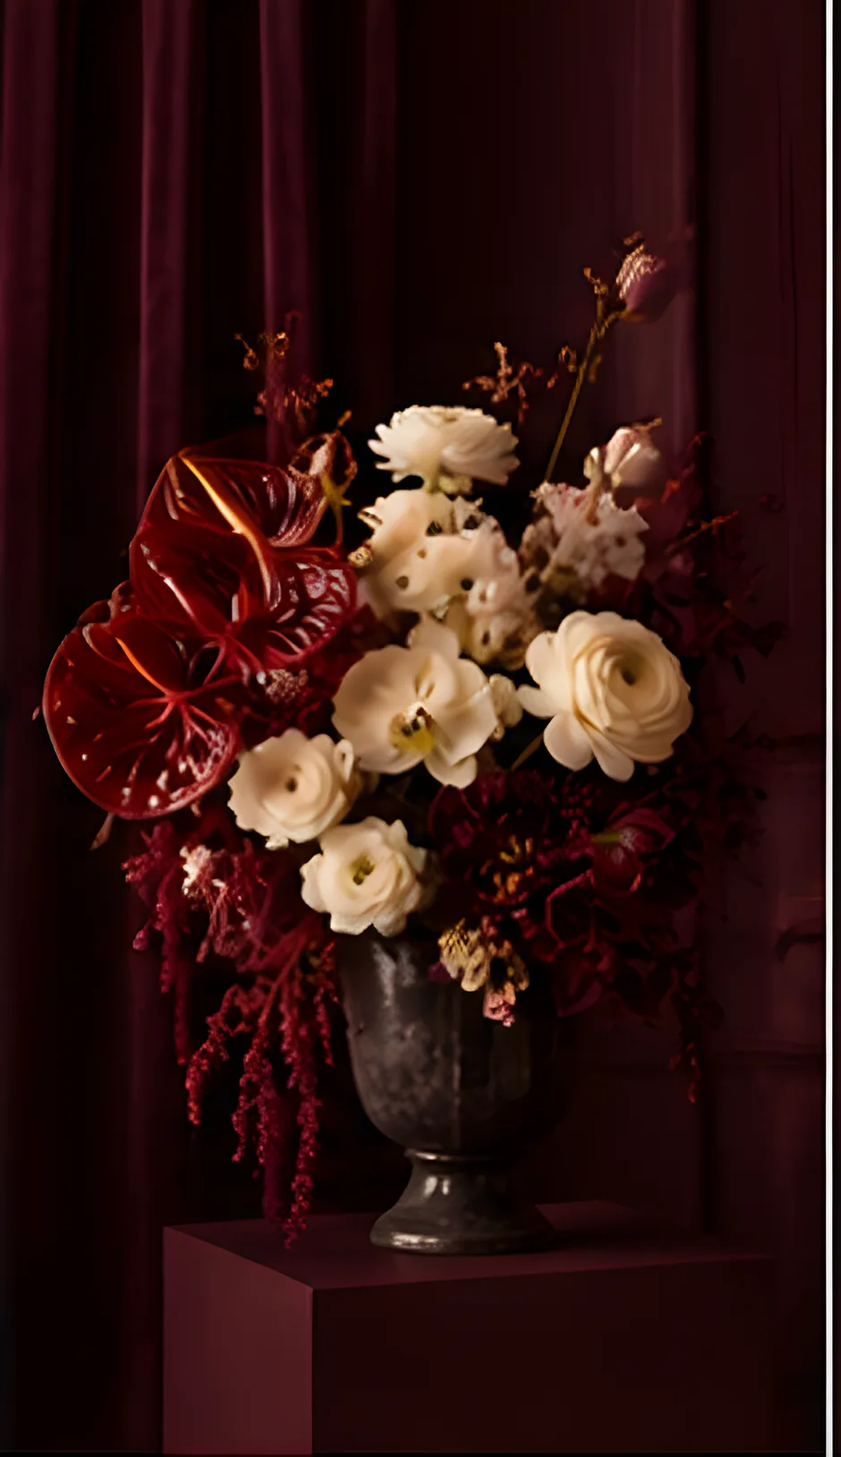
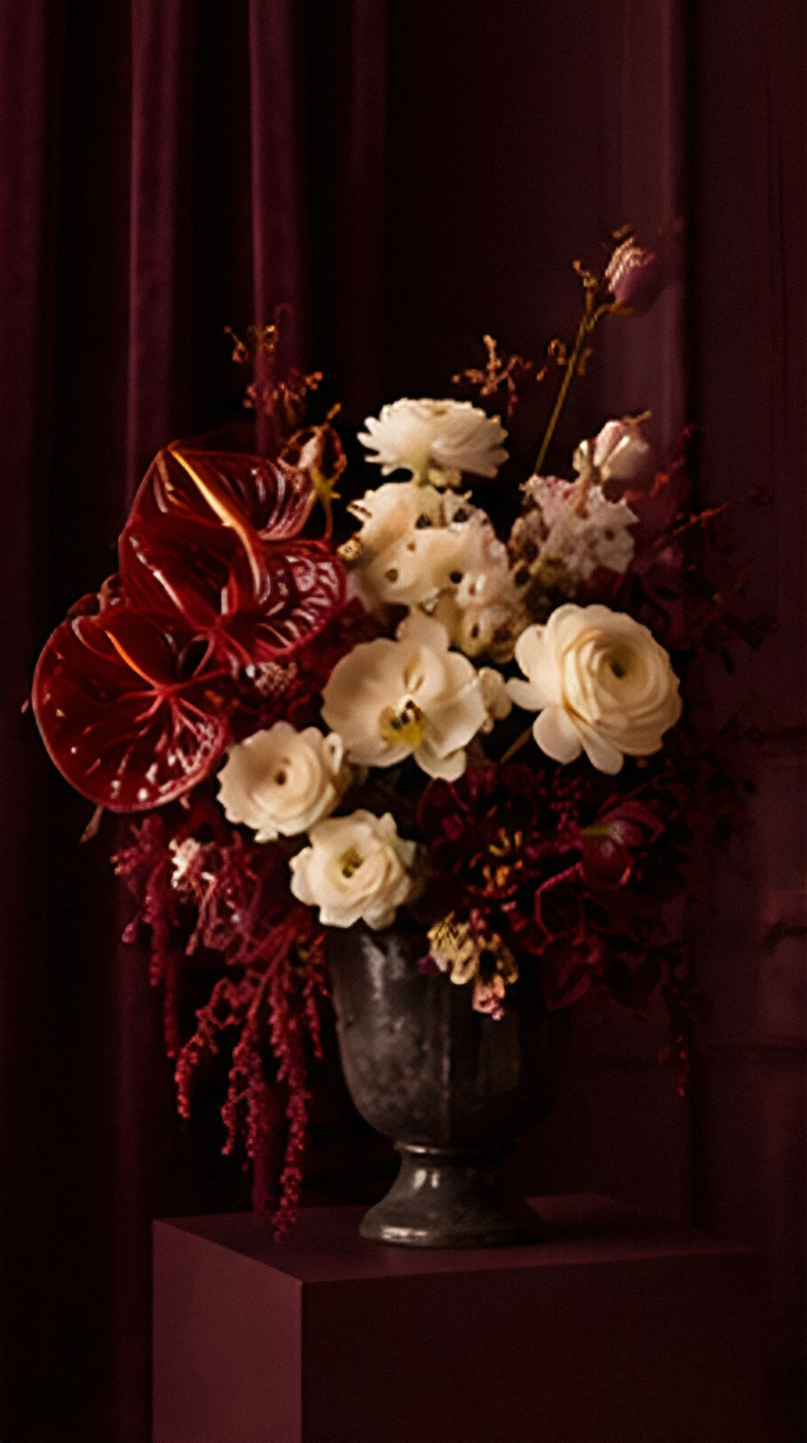
Sept Heures: final audit — title, unified cards, urn bouquets, portrait edit, copy, mobile
Claude-Session: https://claude.ai/code/session_01UTJuAjWUwzzxbHTx65gk4g

diff --git a/projects/sept-heures/index.html b/projects/sept-heures/index.html
@@ -23,7 +23,7 @@ button{background:none;border:0;cursor:pointer}
 :focus-visible{outline:1px solid var(--cream);outline-offset:4px}
 .disp{font-family:"Noto Serif Display",serif;font-weight:300;letter-spacing:-.02em;line-height:.95}
 .disp em{font-style:italic}
-h2.disp{font-size:clamp(44px,5.4vw,88px);max-width:14ch}
+h2.disp{font-size:clamp(44px,5.4vw,88px);max-width:14ch;text-wrap:balance}
 .k{font-size:12px;font-weight:500;letter-spacing:.24em;text-transform:uppercase;color:var(--soft)}
 .lead{color:var(--soft);max-width:44ch;margin-top:32px;font-size:17px}
 .sec{padding:clamp(88px,11vw,170px) var(--pad);position:relative}
@@ -61,13 +61,16 @@ header nav a:hover{opacity:1}
 .hero .time{display:flex;gap:14px;align-items:center}
 .hero .time::after{content:"";width:64px;height:1px;background:currentColor;opacity:.5}
 /* frosted letters: the same room, blurred and lifted, shows through the name */
-.frost{font-size:clamp(84px,11.5vw,190px);margin-top:26px;line-height:.86;filter:drop-shadow(0 18px 40px rgba(0,0,0,.35))}
-.frost span{display:block;overflow:hidden;padding:0 .04em .08em 0}
-.frost i{background:linear-gradient(170deg,rgba(255,244,240,.92),rgba(242,214,206,.62) 55%,rgba(255,244,240,.8)),url(img/a1-frost.webp) 70% 50%/cover;-webkit-background-clip:text;background-clip:text;color:transparent;-webkit-text-stroke:1px rgba(255,255,255,.55);display:block;font-style:normal;animation:rise 1.5s .3s var(--ease) both}
+.frost{--fs:clamp(88px,11.5vw,190px);font-size:var(--fs);margin-top:30px;line-height:.9;position:relative;width:max-content}
+.frost span{display:block;overflow:hidden;padding:0 .06em .22em 0;margin-bottom:-.2em}
+.frost i{display:block;font-style:normal;background:linear-gradient(175deg,#FFF6F2 0%,#F2DDD6 45%,#E3C1B8 70%,#F7E8E3 100%);-webkit-background-clip:text;background-clip:text;color:transparent;filter:drop-shadow(0 14px 36px rgba(20,4,8,.45));animation:rise 1.5s .3s var(--ease) both}
+.frost span+span{padding-left:.55em}
 .frost span+span i{animation-delay:.45s;font-style:italic}
+.frost i.w{display:inline-block}
+.frost .seven{display:inline-block;vertical-align:top;margin:calc(var(--fs)*.22) 0 0 18px;font:500 13px/1 "Instrument Sans",sans-serif;letter-spacing:.14em;padding:9px 14px;border-radius:999px;animation:up 1s 1s var(--ease) both}
 @keyframes rise{from{transform:translateY(105%)}}
 @keyframes up{from{opacity:0;transform:translateY(14px)}}
-.hero .lead{animation:up 1s .9s var(--ease) both;margin-top:40px;font-size:18px;color:var(--cream)}
+.hero .lead{animation:up 1s .9s var(--ease) both;margin-top:76px;font-size:18px;color:var(--cream)}
 .hero .act{display:flex;gap:12px;flex-wrap:wrap;margin-top:34px;animation:up 1s 1.1s var(--ease) both}
 .cut{font-size:14px;color:var(--soft);margin-top:16px}
 .cut b{color:var(--cream);font-weight:600;font-variant-numeric:tabular-nums}
@@ -79,12 +82,15 @@ header nav a:hover{opacity:1}
 /* the edit: pick a bouquet, the room changes */
 .edit{position:relative;height:100svh;min-height:680px;overflow:hidden;background:var(--night)}
 .edit .ph{position:absolute;inset:0}
-.edit .ph img{position:absolute;inset:0;opacity:0;transition:opacity 1s ease,transform 1.6s var(--ease);transform:scale(1.03);object-position:var(--op,60% 50%)}
-.edit .ph img.on{opacity:1;transform:none}
+.edit .ph img{position:absolute;inset:-40px;width:calc(100% + 80px);height:calc(100% + 80px);opacity:0;transition:opacity 1s ease;filter:blur(30px) brightness(.55) saturate(1.1)}
+.edit .ph img.on{opacity:.9}
+.portrait{position:absolute;z-index:2;right:calc(var(--pad) + 4vw);top:50%;transform:translateY(-50%);height:min(82vh,760px);aspect-ratio:4/7;border-radius:18px;overflow:hidden;box-shadow:0 50px 100px -40px rgba(0,0,0,.7)}
+.portrait img{position:absolute;inset:0;opacity:0;transform:scale(1.04);transition:opacity .9s ease,transform 1.4s var(--ease);object-position:var(--op,50% 50%)}
+.portrait img.on{opacity:1;transform:none}
 .edit .panel{position:absolute;z-index:3;left:var(--pad);top:50%;transform:translateY(-50%);width:min(470px,calc(100% - 32px));padding:34px 32px 28px;border-radius:28px}
 .edit h2{font-size:clamp(44px,4.6vw,72px);margin-top:16px}
 .picks{display:grid;grid-template-columns:repeat(6,1fr);gap:8px;margin-top:36px}
-.picks button{aspect-ratio:3/4;border-radius:12px;overflow:hidden;opacity:.55;outline:1px solid transparent;outline-offset:3px;transition:opacity .4s,outline-color .4s,transform .5s var(--ease)}
+.picks button{aspect-ratio:4/7;border-radius:12px;overflow:hidden;opacity:.55;outline:1px solid transparent;outline-offset:3px;transition:opacity .4s,outline-color .4s,transform .5s var(--ease)}
 .picks button:hover{opacity:.85;transform:translateY(-3px)}
 .picks button[aria-pressed=true]{opacity:1;outline-color:var(--cream)}
 .picks img{object-position:50% 40%}
@@ -100,9 +106,9 @@ header nav a:hover{opacity:1}
 
 /* collection */
 .head{display:flex;justify-content:space-between;align-items:end;gap:24px;flex-wrap:wrap;margin-bottom:64px}
-.cards{display:grid;grid-template-columns:repeat(3,1fr);gap:clamp(16px,2vw,28px)}
+.cards{display:grid;grid-template-columns:repeat(4,1fr);gap:clamp(16px,2vw,28px)}
 .card{position:relative}
-.card .im{position:relative;aspect-ratio:4/5;overflow:hidden;border-radius:4px}
+.card .im{position:relative;aspect-ratio:4/7;overflow:hidden;border-radius:14px}
 .card .im img{transition:transform 1.4s var(--ease);object-position:50% 40%}
 .card:hover .im img{transform:scale(1.05)}
 .card .quick{position:absolute;left:12px;right:12px;bottom:12px;display:flex;gap:6px;padding:6px;border-radius:999px;opacity:0;transform:translateY(12px);transition:opacity .4s,transform .5s var(--ease)}
@@ -126,14 +132,17 @@ header nav a:hover{opacity:1}
 .clock b{font:300 clamp(64px,8vw,120px)/1 "Noto Serif Display",serif;font-variant-numeric:tabular-nums}
 .steps{display:grid;grid-template-columns:repeat(4,1fr);gap:clamp(16px,2vw,28px);margin-top:72px}
 .step{border-radius:22px;padding:14px 14px 22px}
-.step .im{aspect-ratio:4/5;border-radius:12px;overflow:hidden}
+.step .im{aspect-ratio:4/5;border-radius:14px;overflow:hidden}
 .step .t{font:300 34px/1 "Noto Serif Display",serif;margin-top:20px;font-variant-numeric:tabular-nums}
 .step b{display:block;font-weight:600;margin-top:10px}
 .step p{color:var(--soft);font-size:14px;margin-top:4px}
-.step.now{border-color:rgba(255,255,255,.55)}
+.step{transition:transform .5s var(--ease)}
+.step:hover{transform:translateY(-4px)}
+.step .t{display:flex;align-items:center;gap:10px}
+.step.now .t::after{content:"now";font:500 11px/1 "Instrument Sans",sans-serif;letter-spacing:.14em;text-transform:uppercase;padding:6px 9px;border-radius:999px;border:1px solid rgba(255,255,255,.3)}
 
 /* sizes */
-.sizes .frame{position:relative;margin-top:56px;border-radius:6px;overflow:hidden}
+.sizes .frame{position:relative;margin-top:56px;border-radius:14px;overflow:hidden}
 .sizes .labels{position:absolute;left:0;right:0;bottom:24px;display:grid;grid-template-columns:29% 31% 40%;padding:0 3%;gap:12px}
 .sizes .labels button{text-align:center;padding:14px 10px;border-radius:18px;transition:transform .5s var(--ease)}
 .sizes .labels button:hover{transform:translateY(-4px)}
@@ -156,7 +165,7 @@ header nav a:hover{opacity:1}
 
 /* promise + delivery */
 .promise{display:grid;grid-template-columns:1fr 1fr;gap:clamp(16px,2vw,28px);align-items:stretch}
-.promise .im{position:relative;border-radius:6px;overflow:hidden;min-height:520px}
+.promise .im{position:relative;border-radius:14px;overflow:hidden;min-height:520px}
 .promise .cap{position:absolute;left:18px;right:18px;bottom:18px;padding:18px 20px;border-radius:20px}
 .promise .cap b{display:block;font:300 26px/1.1 "Noto Serif Display",serif}
 .promise .cap p{color:var(--soft);font-size:14px;margin-top:6px}
@@ -167,7 +176,7 @@ header nav a:hover{opacity:1}
 .visit .ph img{object-position:50% 40%}
 .visit .ph::after{content:"";position:absolute;inset:0;background:linear-gradient(0deg,rgba(34,9,14,.75),transparent 55%)}
 .visit .card2{position:relative;z-index:2;margin:var(--pad);padding:32px 34px;border-radius:28px;max-width:440px}
-.visit h2{font-size:clamp(38px,4vw,60px)}
+.visit h2{font-size:clamp(38px,4vw,60px);max-width:none}
 .visit p{color:var(--soft);margin-top:28px}
 .visit .btn{margin-top:24px}
 
@@ -207,7 +216,10 @@ body.open .drawer{transform:none}
   .hero .ph img{object-position:74% 50%}
   .hero .shade{background:linear-gradient(180deg,rgba(34,9,14,0) 25%,rgba(34,9,14,.8) 70%)}
   .hero .copy{top:auto;bottom:76px;transform:none;max-width:none;right:var(--pad)}
-  .frost{font-size:clamp(68px,20vw,120px)}
+  .frost{--fs:clamp(72px,21vw,120px)}
+  .hero .lead{margin-top:56px;font-size:17px}
+  .frost .seven{font-size:11px;padding:7px 11px}
+  .portrait{right:50%;transform:translate(50%,0);top:84px;height:52vh}
   .edit .panel{top:auto;bottom:16px;transform:none;padding:24px 20px}
   .picks{grid-template-columns:repeat(6,1fr);gap:6px;margin-top:22px}
   .edit h2{font-size:40px}
@@ -216,10 +228,13 @@ body.open .drawer{transform:none}
   .steps{grid-template-columns:1fr 1fr}
   .sizes .labels{position:static;grid-template-columns:1fr 1fr 1fr;padding:12px 0 0}
   .plans,.promise{grid-template-columns:1fr}
+  footer .big{font-size:24vw;white-space:normal;line-height:.9}
   .sticky{display:flex;position:fixed;z-index:30;left:12px;right:12px;bottom:12px;justify-content:space-between;padding:16px 22px;border-radius:999px;font-weight:600;transform:translateY(150%);transition:transform .5s var(--ease)}
   .sticky.show{transform:none}
 }
-@media (max-width:520px){.cards{grid-template-columns:1fr}}
+.sizes .labels i{font-style:normal}
+.card .row{flex-wrap:wrap;gap:4px 12px}
+@media (max-width:520px){.card .row{flex-direction:column}.card .row b{font-size:22px}.card .quick button{font-size:11px;padding:8px 2px}.sizes .labels i{display:none}.sizes .labels button{padding:12px 6px}.steps .step p{display:none}}
 @media (prefers-reduced-motion:reduce){*{animation:none!important;transition:none!important}.reveal{opacity:1;transform:none}}
 </style>
 </head>
@@ -234,22 +249,22 @@ body.open .drawer{transform:none}
   <div class="ph"><img src="img/a1-noir.webp" alt="A sculptural bouquet of dark dahlias, plum calla lilies and blackberries on a plum velvet plinth" fetchpriority="high"></div>
   <div class="shade"></div>
   <div class="copy">
-    <span class="k time">Fleuriste · Paris 6 · since 7:00</span>
-    <h1 class="disp frost" aria-label="Sept Heures"><span><i>Sept</i></span><span><i>Heures</i></span></h1>
+    <span class="k time">Fleuriste · Paris 6</span>
+    <h1 class="disp frost" aria-label="Sept Heures"><span><i class="w">Sept</i><small class="seven glass" aria-hidden="true">07:00</small></span><span><i>Heures</i></span></h1>
     <p class="lead">Flowers in at seven, tied by nine, at their door by evening. With a photo of the bouquet before it leaves.</p>
     <div class="act"><a class="btn solid" href="#edit">Choose a bouquet</a><a class="btn glass" href="#day">How a day works</a></div>
-    <p class="cut" data-cut>Order by 15:00 for delivery in Paris today</p>
+    <p class="cut" data-cut>Order by 15:00 for delivery in Paris tonight</p>
   </div>
   <div class="marquee glass" aria-hidden="true"><div>
-    <span>Sept Heures</span><span>·</span><span>Fleuriste</span><span>·</span><span>Paris 6</span><span>·</span><span>tied at seven</span><span>·</span><span>delivered by evening</span><span>·</span>
-    <span>Sept Heures</span><span>·</span><span>Fleuriste</span><span>·</span><span>Paris 6</span><span>·</span><span>tied at seven</span><span>·</span><span>delivered by evening</span><span>·</span>
-    <span>Sept Heures</span><span>·</span><span>Fleuriste</span><span>·</span><span>Paris 6</span><span>·</span><span>tied at seven</span><span>·</span><span>delivered by evening</span><span>·</span>
-    <span>Sept Heures</span><span>·</span><span>Fleuriste</span><span>·</span><span>Paris 6</span><span>·</span><span>tied at seven</span><span>·</span><span>delivered by evening</span><span>·</span>
+    <span>Sept Heures</span><span>·</span><span>Fleuriste</span><span>·</span><span>Paris 6</span><span>·</span><span>in at seven</span><span>·</span><span>delivered by evening</span><span>·</span>
+    <span>Sept Heures</span><span>·</span><span>Fleuriste</span><span>·</span><span>Paris 6</span><span>·</span><span>in at seven</span><span>·</span><span>delivered by evening</span><span>·</span>
+    <span>Sept Heures</span><span>·</span><span>Fleuriste</span><span>·</span><span>Paris 6</span><span>·</span><span>in at seven</span><span>·</span><span>delivered by evening</span><span>·</span>
+    <span>Sept Heures</span><span>·</span><span>Fleuriste</span><span>·</span><span>Paris 6</span><span>·</span><span>in at seven</span><span>·</span><span>delivered by evening</span><span>·</span>
   </div></div>
 </section>
 
 <section class="edit" id="edit">
-  <div class="ph" data-room></div>
+  <div class="ph" data-room aria-hidden="true"></div><div class="portrait" data-portrait></div>
   <div class="panel glass">
     <span class="k">The evening edit</span>
     <h2 class="disp">Flowers that <em>arrive</em> before dinner</h2>
@@ -262,7 +277,7 @@ body.open .drawer{transform:none}
 </section>
 
 <section class="sec" id="collection">
-  <div class="head reveal"><h2 class="disp">The <em>collection</em></h2><span class="k">Six bouquets · this week</span></div>
+  <div class="head reveal"><h2 class="disp">The <em>collection</em></h2><span class="k">Four bouquets · this week</span></div>
   <div class="cards" data-cards></div>
 </section>
 
@@ -275,21 +290,21 @@ body.open .drawer{transform:none}
     <div class="clock reveal"><b data-clock>07:00</b><span class="k">in Paris now</span></div>
     <div class="steps">
       <div class="step glass reveal" data-h="7"><div class="im"><img src="img/a4-macro.webp" alt="Dahlia petals with drops of water, just arrived" loading="lazy"></div><div class="t">07:00</div><b>The flowers arrive</b><p>From Rungis and from growers in the Var, still wet.</p></div>
-      <div class="step glass reveal" data-h="9"><div class="im"><img src="img/a3-blanc.webp" alt="A gloved hand holds a finished white bouquet" loading="lazy" style="object-position:62% 50%"></div><div class="t">09:00</div><b>We tie your bouquet</b><p>By hand, in the mood you chose, never from a template.</p></div>
+      <div class="step glass reveal" data-h="9"><div class="im"><img src="img/a3-blanc.webp" alt="A gloved hand holds a finished white bouquet" loading="lazy" style="object-position:62% 50%"></div><div class="t">09:00</div><b>We tie your bouquet</b><p>By hand, at the long table. No two come out the same.</p></div>
       <div class="step glass reveal" data-h="11"><div class="im"><img src="img/phone.webp" alt="The florist photographs the wrapped bouquet with her phone" loading="lazy" style="object-position:45% 50%"></div><div class="t">11:00</div><b>You get a photo</b><p>On WhatsApp. Want more white? Say so before it leaves.</p></div>
-      <div class="step glass reveal" data-h="17"><div class="im"><img src="img/courier.webp" alt="A courier hands the bouquet at a plum door in the evening" loading="lazy" style="object-position:40% 50%"></div><div class="t">17–21h</div><b>At their door</b><p>Wrapped in tissue and plum ribbon, with your card.</p></div>
+      <div class="step glass reveal" data-h="17"><div class="im"><img src="img/courier.webp" alt="A courier hands the bouquet at a plum door in the evening" loading="lazy" style="object-position:40% 50%"></div><div class="t">17–21h</div><b>At the door</b><p>Wrapped in tissue and plum ribbon, with your card.</p></div>
     </div>
   </div>
 </section>
 
 <section class="sec sizes">
   <span class="k reveal">Three sizes</span>
-  <h2 class="disp reveal" style="margin-top:20px">The same bouquet, <em>three</em> gestures</h2>
+  <h2 class="disp reveal" style="margin-top:20px">One bouquet, <em>three</em> sizes</h2>
   <div class="frame reveal"><img src="img/sizes.webp" alt="The same dahlia and calla bouquet in small, medium and large, on three plum plinths" loading="lazy">
     <div class="labels">
-      <button class="glass" data-size="0"><b>Small</b><span>A small gesture · from 75 €</span></button>
-      <button class="glass" data-size="1"><b>Medium</b><span>For everyday moments · from 110 €</span></button>
-      <button class="glass" data-size="2"><b>Large</b><span>A statement · from 160 €</span></button>
+      <button class="glass" data-size="0"><b>Small</b><span><i>A thank-you · </i>from 75 €</span></button>
+      <button class="glass" data-size="1"><b>Medium</b><span><i>For a dinner table · </i>from 110 €</span></button>
+      <button class="glass" data-size="2"><b>Large</b><span><i>For a big day · </i>from 160 €</span></button>
     </div>
   </div>
 </section>
@@ -299,9 +314,9 @@ body.open .drawer{transform:none}
   <h2 class="disp reveal" style="margin-top:20px">A new bouquet <em>every</em> Friday</h2>
   <p class="lead reveal">Different every week, tied the same morning. Skip or stop whenever you like.</p>
   <div class="plans" role="radiogroup" aria-label="Choose a plan">
-    <button class="plan glass reveal" role="radio" aria-checked="false" data-plan="Every two weeks" data-per="95" data-n="2.17" data-cta="Start"><span class="tag"></span><h3>Every two weeks</h3><p class="pr">95 € <span>per delivery</span></p><ul><li>Medium size</li><li>The week’s mood</li><li>Pause any time</li></ul></button>
-    <button class="plan glass reveal" role="radio" aria-checked="true" data-plan="Every week" data-per="85" data-n="4.33" data-cta="Start this Friday"><span class="tag">Most chosen</span><h3>Every week</h3><p class="pr">85 € <span>per delivery</span></p><ul><li>Medium size</li><li>Never the same twice</li><li>Our dark vase with the first one</li></ul></button>
-    <button class="plan glass reveal" role="radio" aria-checked="false" data-plan="For a restaurant or hotel" data-per="240" data-n="4.33" data-cta="Ask for a visit"><span class="tag"></span><h3>For a restaurant or hotel</h3><p class="pr">From 240 € <span>per week</span></p><ul><li>Large pieces, changed weekly</li><li>We install and clear</li><li>Monthly invoice</li></ul></button>
+    <button class="plan glass reveal" role="radio" aria-checked="false" data-plan="Every two weeks" data-per="95" data-n="2.17" data-cta="Start"><span class="tag"></span><h3>Every two weeks</h3><p class="pr">95 € <span>per delivery</span></p><ul><li>Medium size</li><li>Whatever is best that week</li><li>Pause any time</li></ul></button>
+    <button class="plan glass reveal" role="radio" aria-checked="true" data-plan="Every week" data-per="85" data-n="4.33" data-cta="Start this Friday"><span class="tag">Most chosen</span><h3>Every week</h3><p class="pr">85 € <span>per delivery</span></p><ul><li>Medium size</li><li>Never the same twice</li><li>Our stoneware vase with the first delivery</li></ul></button>
+    <button class="plan glass reveal" role="radio" aria-checked="false" data-plan="For a restaurant or hotel" data-per="240" data-n="4.33" data-cta="Ask for a visit"><span class="tag"></span><h3>For a restaurant or hotel</h3><p class="pr">From 240 € <span>per week</span></p><ul><li>Large pieces, changed weekly</li><li>We set them up and take them away</li><li>Monthly invoice</li></ul></button>
   </div>
   <div class="plan-cta reveal"><a class="btn solid" href="#" data-plan-btn>Start this Friday</a><p data-plan-sum></p></div>
 </section>
@@ -335,12 +350,12 @@ body.open .drawer{transform:none}
 <script>
 const $=s=>document.querySelector(s),$$=s=>[...document.querySelectorAll(s)];
 const B=[
- {id:'noir',name:'Noir',note:'Dahlias, plum calla lilies, blackberries',price:120,img:'img/a1-noir.webp',op:'70% 50%',th:'img/a1-noir.webp',thop:'70% 40%'},
- {id:'blanc',name:'Blanc',note:'Garden roses, sweet peas, white lace of stems',price:95,img:'img/a3-blanc.webp',op:'58% 50%',th:'img/a3-blanc.webp',thop:'62% 40%'},
- {id:'rouge',name:'Rouge',note:'White ranunculus, burgundy anthurium',price:110,img:'img/cat-rouge.webp',op:'50% 45%',th:'img/cat-rouge.webp',thop:'50% 40%'},
- {id:'orchidee',name:'Orchidée',note:'Pink phalaenopsis, red astilbe',price:140,img:'img/cat-orchidee.webp',op:'50% 45%',th:'img/cat-orchidee.webp',thop:'50% 40%'},
- {id:'soleil',name:'Soleil',note:'Orange tulips, mimosa',price:85,img:'img/cat-soleil.webp',op:'50% 45%',th:'img/cat-soleil.webp',thop:'50% 40%'},
- {id:'lilas',name:'Lilas',note:'Lilac and hydrangea',price:105,img:'img/a2-lilas.webp',op:'60% 50%',th:'img/a2-lilas.webp',thop:'55% 40%'}];
+ {id:'noir',name:'Noir',note:'Dahlias, plum calla lilies, blackberries',price:120,img:'img/a1-noir.webp',op:'66% 50%',col:0},
+ {id:'rouge',name:'Rouge',note:'Burgundy anthurium, white ranunculus',price:110,img:'img/cat-rouge.webp',op:'50% 50%',col:1},
+ {id:'orchidee',name:'Orchidée',note:'Pink phalaenopsis, red astilbe',price:140,img:'img/cat-orchidee.webp',op:'50% 50%',col:1},
+ {id:'soleil',name:'Soleil',note:'Orange tulips and mimosa',price:85,img:'img/cat-soleil.webp',op:'50% 50%',col:1},
+ {id:'lilas',name:'Lilas',note:'Lilac and hydrangea',price:105,img:'img/cat-lilas.webp',op:'50% 50%',col:1},
+ {id:'blanc',name:'Blanc',note:'Garden roses, sweet peas, white waxflower',price:95,img:'img/a3-blanc.webp',op:'60% 50%',col:0}];
 const SIZES=['Small','Medium','Large'],ADD=[-35,0,50];
 
 // honest cut-off: after 15:00 tonight is not offered
@@ -352,10 +367,11 @@ function tick(){const m=left();$('[data-cut]').innerHTML=m>0?`Order in the next 
 
 // the edit: the bouquet you pick fills the room
 let cur=0,day='today';
-$('[data-room]').innerHTML=B.map((b,i)=>`<img ${i?'loading="lazy"':''} class="${i?'':'on'}" src="${b.img}" alt="${b.name}: ${b.note}" style="--op:${b.op}">`).join('');
-$('[data-picks]').innerHTML=B.map((b,i)=>`<button aria-pressed="${!i}" aria-label="${b.name}, ${b.price} €"><img src="${b.th}" alt="" loading="lazy" style="object-position:${b.thop}"></button>`).join('');
+$('[data-room]').innerHTML=B.map((b,i)=>`<img ${i?'loading="lazy"':''} class="${i?'':'on'}" src="${b.img}" alt="">`).join('');
+$('[data-portrait]').innerHTML=B.map((b,i)=>`<img ${i?'loading="lazy"':''} class="${i?'':'on'}" src="${b.img}" alt="${b.name}: ${b.note}" style="--op:${b.op}">`).join('');
+$('[data-picks]').innerHTML=B.map((b,i)=>`<button aria-pressed="${!i}" aria-label="${b.name}, ${b.price} €"><img src="${b.img}" alt="" loading="lazy" style="object-position:${b.imgop}"></button>`).join('');
 const dayTxt=()=>({today:'tonight',tomorrow:'tomorrow',sat:'on Saturday'})[day];
-function pick(i){cur=i;const b=B[i];$$('[data-room] img').forEach((im,k)=>im.classList.toggle('on',k===i));$$('[data-picks] button').forEach((x,k)=>x.setAttribute('aria-pressed',k===i));
+function pick(i){cur=i;const b=B[i];$$('[data-room] img,[data-portrait] img').forEach(im=>im.classList.toggle('on',im.parentNode.children[i]===im));$$('[data-picks] button').forEach((x,k)=>x.setAttribute('aria-pressed',k===i));
   $('[data-pname]').textContent=b.name;$('[data-pnote]').textContent=b.note;$('[data-pprice]').textContent=b.price+' €';
   $('[data-add-edit]').textContent=`Add to bag · ${b.price} € · ${dayTxt()}`;$('[data-sname]').textContent=`${b.name} · ${b.price} €`}
 $$('[data-picks] button').forEach((x,i)=>x.onclick=()=>pick(i));
@@ -363,7 +379,7 @@ function setDay(v){day=v;$$('[data-day]').forEach(x=>x.setAttribute('aria-presse
 $$('[data-day]').forEach(x=>x.onclick=()=>setDay(x.dataset.day));
 
 // collection
-$('[data-cards]').innerHTML=B.map(b=>`<article class="card reveal" data-id="${b.id}"><div class="im"><img src="${b.th}" alt="${b.name}: ${b.note}" loading="lazy" style="object-position:${b.thop}"><span class="badge glass">✓ In your bag</span><div class="quick glass" role="group" aria-label="Add ${b.name}"><button data-q="0">Small</button><button data-q="1">Medium</button><button data-q="2">Large</button></div></div><div class="row"><b>${b.name}</b><span>from ${b.price+ADD[0]} €</span></div><p class="note">${b.note}</p></article>`).join('');
+$('[data-cards]').innerHTML=B.filter(b=>b.col).map(b=>`<article class="card reveal" data-id="${b.id}"><div class="im"><img src="${b.img}" alt="${b.name}: ${b.note}" loading="lazy" style="object-position:${b.imgop}"><span class="badge glass">✓ In your bag</span><div class="quick glass" role="group" aria-label="Add ${b.name}"><button data-q="0">Small</button><button data-q="1">Medium</button><button data-q="2">Large</button></div></div><div class="row"><b>${b.name}</b><span>from ${b.price+ADD[0]} €</span></div><p class="note">${b.note}</p></article>`).join('');
 
 // bag
 const bag=[];
@@ -380,9 +396,9 @@ function draw(){const tot=bag.reduce((s,i)=>s+i.price,0),l=150-tot;
 function add(it,btn){bag.push(it);draw();const b=$('[data-open]');b.classList.remove('bump');void b.offsetWidth;b.classList.add('bump');
   if(btn&&!btn.dataset.busy){const t=btn.innerHTML;btn.dataset.busy=1;btn.classList.add('done');btn.innerHTML='✓ Added';setTimeout(()=>{btn.innerHTML=t;btn.classList.remove('done');delete btn.dataset.busy},1500)}
   setTimeout(openBag,450)}
-$$('[data-add-edit]').forEach(x=>x.onclick=()=>{const b=B[cur];add({id:b.id,name:b.name,sub:`Medium · ${dayTxt()}`,price:b.price,img:b.th},x.dataset.sticky?null:x)});
-$$('.card [data-q]').forEach(x=>x.onclick=()=>{const c=x.closest('.card'),b=B.find(v=>v.id===c.dataset.id),q=+x.dataset.q;add({id:b.id,name:b.name,sub:SIZES[q],price:b.price+ADD[q],img:b.th},x)});
-$$('[data-size]').forEach(x=>x.onclick=()=>{const q=+x.dataset.size;add({id:'noir',name:'Noir',sub:SIZES[q],price:B[0].price+ADD[q],img:B[0].th},null)});
+$$('[data-add-edit]').forEach(x=>x.onclick=()=>{const b=B[cur];add({id:b.id,name:b.name,sub:`Medium · ${dayTxt()}`,price:b.price,img:b.img},x.dataset.sticky?null:x)});
+$$('.card [data-q]').forEach(x=>x.onclick=()=>{const c=x.closest('.card'),b=B.find(v=>v.id===c.dataset.id),q=+x.dataset.q;add({id:b.id,name:b.name,sub:SIZES[q],price:b.price+ADD[q],img:b.img},x)});
+$$('[data-size]').forEach(x=>x.onclick=()=>{const q=+x.dataset.size;add({id:'noir',name:'Noir',sub:SIZES[q],price:B[0].price+ADD[q],img:B[0].img},null)});
 
 // plans
 const plans=$$('.plan');function choose(p){plans.forEach(x=>{x.setAttribute('aria-checked',x===p);x.tabIndex=x===p?0:-1});const per=+p.dataset.per,mo=Math.round(per*+p.dataset.n/5)*5;
